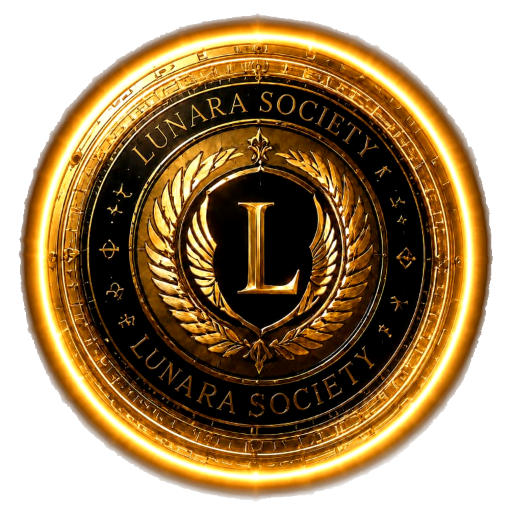
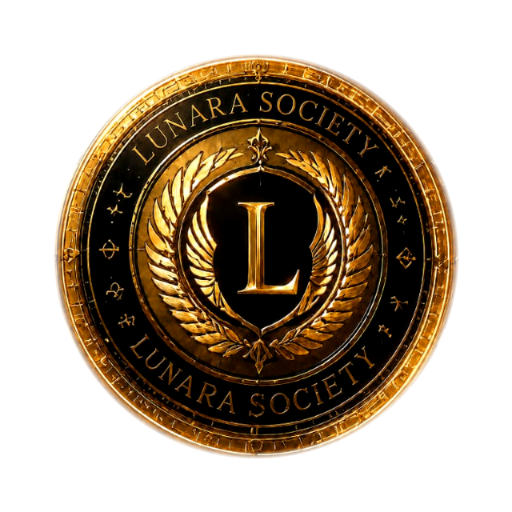
Use the emblem everywhere a stand-in was standing in for it
Three different things were pretending to be the seal.

THE FLAT L IN A CIRCLE

lunara_logo_96.png is the emblem, but with a black box behind it and
the old orange halo painted in. Every nav and footer crops it with
border-radius:50%, so what a visitor actually saw was a dark disc, a
gold rim and a letter L — a generic monogram, on a site that owns an
actual seal.

lunara_emblem_96.png is the relit seal on transparency. Swapped into
every <img> across 30 pages. Favicon, apple-touch-icon and og:image
keep the boxed 512 on purpose: a transparent mark on a social card
lands on whatever ground the platform paints, and that is usually
white.

Five pages then had to lose the jewellery built for the boxed version
— border-radius, object-fit:cover, a gold ring and a warm bloom. A
ring around a seal that has its own rim is a ring around a ring, and
cropping a transparent mark clips its corners for nothing. All of it
is gone, replaced by the same moonlight the rest of the site now uses.

THE DRAWN MONOGRAM

lunara-immersive.js drew its own mark for the page watermark: three
circles, a shield outline and a Georgia "L". Same substitution, same
problem. It is the seal now, at 256px, which is more than enough for
something rendered at 4% opacity.

lunara-credential.js had the same drawn L on the specimen plate,
written yesterday. Also the seal now. A credential carrying a monogram
that is not the issuer's mark is the one place it matters most.

THE UNRELATED ARTWORK
[…]

diff --git a/email_omnibus_followup.html b/email_omnibus_followup.html
@@ -44,7 +44,7 @@
 
   <!-- header -->
   <tr><td align="center" class="lx-pad lx-pad-top" style="padding:52px 52px 30px;">
-    <img src="https://lunarasociety.com/lunara_logo_96.png" width="76" height="76" alt="Lunara Society" style="display:block;width:76px;height:76px;margin:0 auto 20px;">
+    <img src="https://lunarasociety.com/lunara_emblem_96.png" width="76" height="76" alt="Lunara Society" style="display:block;width:76px;height:76px;margin:0 auto 20px;filter:drop-shadow(0 0 26px rgba(159,195,232,0.34)) drop-shadow(0 0 64px rgba(122,158,196,0.16));">
     <div style="font-family:'Helvetica Neue',Helvetica,Arial,sans-serif;font-size:10px;font-weight:400;letter-spacing:0.45em;color:#8A8176;text-transform:uppercase;">Lunara Society</div>
     <div style="width:44px;height:1px;background-color:#C4A46B;margin:22px auto 0;"></div>
   </td></tr>
@@ -122,7 +122,7 @@
 
   <!-- footer -->
   <tr><td align="center" class="lx-pad" style="padding:30px 52px 46px;border-top:1px solid #E8E2D8;">
-    <img src="https://lunarasociety.com/lunara_logo_96.png" width="26" height="26" alt="" style="display:block;width:26px;height:26px;margin:0 auto 16px;opacity:0.2;">
+    <img src="https://lunarasociety.com/lunara_emblem_96.png" width="26" height="26" alt="" style="display:block;width:26px;height:26px;margin:0 auto 16px;opacity:0.2;filter:drop-shadow(0 0 26px rgba(159,195,232,0.34)) drop-shadow(0 0 64px rgba(122,158,196,0.16));">
     <div style="font-family:'Helvetica Neue',Helvetica,Arial,sans-serif;font-size:10px;color:#B0A89E;line-height:2;">
       <a href="https://lunarasociety.com" style="color:#B0A89E;text-decoration:none;">lunarasociety.com</a><br>
       This is a commercial approach. Reply with <strong style="color:#8A8176;font-weight:400;">remove</strong> and you will not hear from us again.

diff --git a/lunara-credential.js b/lunara-credential.js
@@ -111,19 +111,16 @@
     });
     svg.appendChild(g);
 
-    /* ── the seal ─────────────────────────────────────────────── */
-    var seal = el('g', { transform: 'translate(' + (W / 2 - 34) + ',162)' });
-    seal.appendChild(el('circle', { cx: 34, cy: 34, r: 32, fill: 'none',
-      stroke: 'url(#lxCredGold)', 'stroke-width': '1.6' }));
-    seal.appendChild(el('circle', { cx: 34, cy: 34, r: 26, fill: 'none',
-      stroke: 'url(#lxCredGold)', 'stroke-width': '0.6', opacity: '0.6' }));
-    seal.appendChild(el('path', {
-      d: 'M34 14 L51 23 L51 37 C51 47 43 54 34 57 C25 54 17 47 17 37 L17 23 Z',
-      fill: 'none', stroke: 'url(#lxCredGold)', 'stroke-width': '1.3',
-      'stroke-linejoin': 'round' }));
-    seal.appendChild(txt('L', { x: 34, y: 43, 'text-anchor': 'middle',
-      class: 'lx-cred-seal-l', fill: 'url(#lxCredGold)' }));
-    svg.appendChild(seal);
+    /* ── the seal ─────────────────────────────────────────────
+       This drew its own circles-and-shield "L" at first, which was
+       the same stand-in the watermark used: a monogram in place of an
+       institution that owns an actual seal. It is the seal. */
+    var SEAL = 76;
+    svg.appendChild(el('image', {
+      href: '/lunara_emblem_256.png',
+      x: (W - SEAL) / 2, y: 158, width: SEAL, height: SEAL,
+      preserveAspectRatio: 'xMidYMid meet'
+    }));
 
     /* ── the record ───────────────────────────────────────────── */
     svg.appendChild(txt('LUNARA SOCIETY', { x: W / 2, y: 54, 'text-anchor': 'middle',

diff --git a/lunara-immersive.js b/lunara-immersive.js
@@ -69,19 +69,15 @@
      size.
      ========================================================== */
 
+  /* The mark used to be drawn here: three circles, a shield outline
+     and a Georgia "L". It was a stand-in for the emblem and it looked
+     like one — a generic monogram standing in for an institution that
+     has an actual seal. It is the seal now.
+
+     256px, because this renders at 4% opacity and nobody has ever
+     resolved detail through that. */
   function emblemMark() {
-    return '' +
-      '<svg viewBox="0 0 100 100" aria-hidden="true" focusable="false">' +
-      '<g fill="none" stroke="currentColor" stroke-width="0.6">' +
-      '<circle cx="50" cy="50" r="47"/>' +
-      '<circle cx="50" cy="50" r="41"/>' +
-      '<circle cx="50" cy="50" r="33"/>' +
-      '</g>' +
-      '<path d="M50 20 L74 33 L74 54 C74 68 63 78 50 83 C37 78 26 68 26 54 L26 33 Z" ' +
-      '      fill="none" stroke="currentColor" stroke-width="0.9" stroke-linejoin="round"/>' +
-      '<text x="50" y="63" text-anchor="middle" font-family="Georgia,serif" ' +
-      '      font-size="34" fill="currentColor">L</text>' +
-      '</svg>';
+    return '<img src="/lunara_emblem_256.png" alt="" loading="lazy" decoding="async">';
   }
 
   function placeWatermark() {
@@ -162,7 +158,10 @@
     band.setAttribute('aria-hidden', 'true');
 
     var img = document.createElement('img');
-    img.src = 'shield_gate.jpg';
+    /* This band carried shield_gate.jpg — an ornate compass rose with
+       laurel and mountains that has nothing to do with the emblem, on
+       a site that already has one. The seal goes here instead. */
+    img.src = '/lunara_emblem_512.png';
     img.alt = '';
     img.loading = 'lazy';
     img.decoding = 'async';

diff --git a/member.html b/member.html
@@ -38,7 +38,14 @@ nav{position:fixed;top:0;left:0;right:0;z-index:100;display:flex;align-items:cen
 /* AUTH PANEL */
 .auth-panel{background:var(--black-card);border:1px solid var(--border);padding:56px 48px;width:100%;max-width:480px}
 .auth-logo{margin-bottom:32px}
-.auth-logo img{width:72px;border-radius:50%;border:1px solid rgba(196,164,107,0.3);padding:2px}
+.auth-logo img{
+  width:82px;
+  /* No ring and no crop: the seal has its own rim, and border-radius
+     on a transparent mark just clips its corners for nothing. The
+     light around it is moonlight, like everywhere else. */
+  filter:drop-shadow(0 0 24px rgba(159,195,232,0.34))
+         drop-shadow(0 0 60px rgba(122,158,196,0.18));
+}
 .auth-label{font-size:10px;letter-spacing:4px;text-transform:uppercase;color:var(--gold);margin-bottom:12px}
 .auth-title{font-size:28px;font-weight:300;color:var(--white);margin-bottom:8px}
 .auth-sub{font-size:14px;color:var(--white-30);margin-bottom:40px;line-height:1.6}
@@ -581,7 +588,7 @@ p,li,span{
 
 <nav>
   <a href="/" class="nav-logo">
-    <img src="lunara_logo_96.png" alt="Lunara Society">
+    <img src="lunara_emblem_96.png" alt="Lunara Society">
     <span class="nav-wordmark">Lunara Society</span>
   </a>
   <span class="nav-right" id="nav-status">MEMBER AREA</span>
@@ -619,7 +626,7 @@ p,li,span{
 
 <div id="view-auth">
   <div class="auth-panel">
-    <div class="auth-logo"><img src="lunara_logo_96.png" alt="Lunara Society" style="border-radius:50%;box-shadow:0 0 30px rgba(196,164,107,0.5),0 0 60px rgba(196,164,107,0.15)"></div>
+    <div class="auth-logo"><img src="lunara_emblem_96.png" alt="Lunara Society"></div>
     <p class="auth-label">Lunara Society</p>
 
     <div class="auth-tabs">

diff --git a/shield.html b/shield.html
@@ -719,7 +719,7 @@ input:focus,select:focus,textarea:focus{border-color:rgba(196,164,107,0.65)!impo
 <div id="page-fade" style="position:fixed;inset:0;background:#000;z-index:9999;opacity:0;pointer-events:none;transition:opacity 0.55s ease;"></div>
 <nav class="page-nav">
   <div class="back-link" onclick="fadeNav('home.html')">← Return to Hall</div>
-  <a href="/" class="nav-logo"><img src="lunara_logo_96.png" alt="Lunara Society" class="nav-logo-img"><span class="nav-logo-text">Lunara Society</span></a>
+  <a href="/" class="nav-logo"><img src="lunara_emblem_96.png" alt="Lunara Society" class="nav-logo-img"><span class="nav-logo-text">Lunara Society</span></a>
   <div class="nav-right">
     <span class="nav-link" onclick="fadeNav('shield.html')">Initiation</span>
     <span class="nav-link" onclick="fadeNav('registry.html')">Registry</span>
@@ -730,7 +730,7 @@ input:focus,select:focus,textarea:focus{border-color:rgba(196,164,107,0.65)!impo
 <div class="page-wrap">
   <div class="page-inner">
     <div style="display:flex;justify-content:center;margin-bottom:32px;position:relative;z-index:1;clear:both">
-      <img src="lunara_logo_96.png" alt="Lunara Society" style="width:100px;height:100px;border-radius:50%;object-fit:cover;border:1px solid rgba(196,164,107,0.3);box-shadow:0 0 40px rgba(196,164,107,0.3),0 0 80px rgba(196,164,107,0.12)">
+      <img src="lunara_emblem_96.png" alt="Lunara Society" style="width:100px;height:100px;filter:drop-shadow(0 0 26px rgba(159,195,232,0.34)) drop-shadow(0 0 64px rgba(122,158,196,0.16));">
     </div>
     <p class="eyebrow">Initiation</p>
     <h1 class="page-title">Your Business.<br>Verified. Accountable. Found.</h1>

diff --git a/certify.html b/certify.html
@@ -488,7 +488,7 @@ input:focus,select:focus,textarea:focus{border-color:rgba(196,164,107,0.65)!impo
 
 
 <nav>
-  <a href="/" class="nav-brand"><img src="/lunara_logo_96.png" alt="Lunara Society" class="nav-brand-logo"><span class="nav-brand-text">Lunara <span>Society</span></span></a>
+  <a href="/" class="nav-brand"><img src="/lunara_emblem_96.png" alt="Lunara Society" class="nav-brand-logo"><span class="nav-brand-text">Lunara <span>Society</span></span></a>
   <div class="nav-links">
     <a href="/constitution.html">Constitution</a>
     <a href="/shield.html">Shield</a>
@@ -501,7 +501,7 @@ input:focus,select:focus,textarea:focus{border-color:rgba(196,164,107,0.65)!impo
 <!-- HERO -->
 <div class="hero">
   <div style="display:flex;justify-content:center;margin-bottom:32px;position:relative;z-index:1;clear:both;animation:fadeInUp 1s ease both">
-    <img src="/lunara_logo_96.png" alt="Lunara Society" style="width:96px;height:96px;border-radius:50%;object-fit:cover;border:1px solid rgba(196,164,107,0.3);box-shadow:0 0 40px rgba(196,164,107,0.3),0 0 80px rgba(196,164,107,0.12);animation:pulse-gold 4s ease-in-out infinite alternate">
+    <img src="/lunara_emblem_96.png" alt="Lunara Society" style="width:96px;height:96px;animation:pulse-gold 4s ease-in-out infinite alternate;filter:drop-shadow(0 0 26px rgba(159,195,232,0.34)) drop-shadow(0 0 64px rgba(122,158,196,0.16));">
   </div>
   <div class="urgency-badge">Pilot Enrollment Open · July 29 Launch</div>
   <p class="hero-eyebrow">Lunara Society · Constitutional Governance Program</p>

diff --git a/lunara-refined.css b/lunara-refined.css
@@ -1278,7 +1278,10 @@ a.back,
   color: var(--lx-gold);
 }
 
-.lx-watermark svg { width: 100%; height: 100%; display: block; }
+/* The watermark's child was an inline svg and is now the emblem
+   image; sizing only svg left it at its intrinsic size. */
+.lx-watermark svg,
+.lx-watermark img { width: 100%; height: 100%; display: block; object-fit: contain; }
 
 /* ── 15.5 LETTERBOX ──────────────────────────────────────────
    A ratio, not an effect. 2.39:1 reads as cinema instantly.   */
@@ -1296,11 +1299,25 @@ a.back,
 }
 
 .lx-letterbox img {
-  width: 100%;
-  height: 100%;
-  object-fit: cover;
-  opacity: 0.5;
-  filter: grayscale(0.25) contrast(1.1);
+  /* The band used to hold a wide photograph and cropped it to fill.
+     The seal is square, so filling would blow it up and slice the
+     rim off. It sits centred in the band instead, at the height of
+     the band, the way a mark is struck on a page. */
+  width: auto;
+  height: 78%;
+  margin: 0 auto;
+  display: block;
+  position: absolute;
+  top: 50%; left: 50%;
+  transform: translate(-50%, -50%);
+  object-fit: contain;
+  opacity: 0.62;
+  filter: none;
+}
+.lx-letterbox {
+  background:
+    radial-gradient(ellipse 60% 120% at 50% 50%, rgba(159,195,232,0.07), transparent 70%),
+    #000;
 }
 
 .lx-letterbox::after {

diff --git a/scorer.html b/scorer.html
@@ -520,7 +520,7 @@ input:focus,select:focus,textarea:focus{border-color:rgba(196,164,107,0.65)!impo
 <body>
 
 <nav>
-<a href="/" class="nav-brand"><img src="/lunara_logo_96.png" alt="Lunara Society" class="nav-brand-logo"><span class="nav-brand-text">Lunara <span>Society</span></span></a>
+<a href="/" class="nav-brand"><img src="/lunara_emblem_96.png" alt="Lunara Society" class="nav-brand-logo"><span class="nav-brand-text">Lunara <span>Society</span></span></a>
 <div class="nav-links">
 <a href="/healthcare-intelligence.html">Healthcare</a>
 <a href="/certify.html">Certification</a>
@@ -532,7 +532,7 @@ input:focus,select:focus,textarea:focus{border-color:rgba(196,164,107,0.65)!impo
 
 <div class="header">
 <div style="display:flex;justify-content:center;margin-bottom:28px;position:relative;z-index:1;clear:both">
-  <img src="/lunara_logo_96.png" alt="Lunara Society" style="width:80px;height:80px;border-radius:50%;object-fit:cover;border:1px solid rgba(196,164,107,0.3);box-shadow:0 0 30px rgba(196,164,107,0.3),0 0 60px rgba(196,164,107,0.1)">
+  <img src="/lunara_emblem_96.png" alt="Lunara Society" style="width:80px;height:80px;filter:drop-shadow(0 0 26px rgba(159,195,232,0.34)) drop-shadow(0 0 64px rgba(122,158,196,0.16));">
 </div>
 <div class="label">MVP Preview — Week 2 Build</div>
 <h1>Healthcare AI Compliance Risk Scorer</h1>

diff --git a/healthcare-intelligence.html b/healthcare-intelligence.html
@@ -371,7 +371,7 @@ input:focus,select:focus,textarea:focus{border-color:rgba(196,164,107,0.65)!impo
 
 
 <nav>
-<a href="/" class="nav-brand"><img src="/lunara_logo_96.png" alt="Lunara Society" class="nav-brand-logo"><span class="nav-brand-text">Lunara <span>Society</span></span></a>
+<a href="/" class="nav-brand"><img src="/lunara_emblem_96.png" alt="Lunara Society" class="nav-brand-logo"><span class="nav-brand-text">Lunara <span>Society</span></span></a>
 <div class="nav-links">
 <a href="/certify.html">Certification</a>
 <a href="/intelligence.html">Intelligence</a>
@@ -383,7 +383,7 @@ input:focus,select:focus,textarea:focus{border-color:rgba(196,164,107,0.65)!impo
 <div class="main">
 
 <div style="display:flex;justify-content:center;margin-bottom:32px;position:relative;z-index:1;clear:both">
-  <img src="/lunara_logo_96.png" alt="Lunara Society" style="width:88px;height:88px;border-radius:50%;object-fit:cover;border:1px solid rgba(196,164,107,0.3);box-shadow:0 0 35px rgba(196,164,107,0.3),0 0 70px rgba(196,164,107,0.12)">
+  <img src="/lunara_emblem_96.png" alt="Lunara Society" style="width:88px;height:88px;filter:drop-shadow(0 0 26px rgba(159,195,232,0.34)) drop-shadow(0 0 64px rgba(122,158,196,0.16));">
 </div>
 <div class="label">Governance Intelligence</div>
 <h1>Healthcare AI Governance Intelligence</h1>

diff --git a/home.html b/home.html
@@ -1490,7 +1490,7 @@ input:focus,select:focus,textarea:focus{border-color:rgba(196,164,107,0.65)!impo
 
 <!-- ─── NAV ─── -->
 <header id="top-nav">
-  <a class="nav-logo" href="/"><img src="lunara_logo_96.png" alt="Lunara Society" class="nav-logo-img"><span class="nav-logo-text">Lunara <span>Society</span></span></a>
+  <a class="nav-logo" href="/"><img src="lunara_emblem_96.png" alt="Lunara Society" class="nav-logo-img"><span class="nav-logo-text">Lunara <span>Society</span></span></a>
 
   <div class="nav-pill-wrap">
   <nav class="nav-pill">
@@ -1542,7 +1542,7 @@ input:focus,select:focus,textarea:focus{border-color:rgba(196,164,107,0.65)!impo
 
   <div id="hero-content">
     <div class="hero-medallion">
-      <img src="lunara_logo_96.png" alt="Lunara Society" class="hero-logo-img">
+      <img src="lunara_emblem_96.png" alt="Lunara Society" class="hero-logo-img">
     </div>
     <p class="hero-eyebrow">Constitutional Governance &nbsp;·&nbsp; AI Certification &nbsp;·&nbsp; Est. MMXXVI</p>
     <h1 class="hero-title">The standard<br>for <em>verified AI.</em></h1>

diff --git a/registry.html b/registry.html
@@ -727,7 +727,7 @@ input:focus,select:focus,textarea:focus{border-color:rgba(196,164,107,0.65)!impo
 <div id="page-fade" style="position:fixed;inset:0;background:#000;z-index:9999;opacity:0;pointer-events:none;transition:opacity 0.55s ease;"></div>
 <nav class="page-nav">
   <div class="back-link" onclick="fadeNav('home.html')">← Return to Hall</div>
-  <a href="/" class="nav-logo"><img src="lunara_logo_96.png" alt="Lunara Society" class="nav-logo-img"><span class="nav-logo-text">Lunara Society</span></a>
+  <a href="/" class="nav-logo"><img src="lunara_emblem_96.png" alt="Lunara Society" class="nav-logo-img"><span class="nav-logo-text">Lunara Society</span></a>
   <div class="nav-right">
     <span class="nav-link" onclick="fadeNav('shield.html')">Initiation</span>
     <span class="nav-link" onclick="fadeNav('registry.html')">Registry</span>

diff --git a/architecture.html b/architecture.html
@@ -514,7 +514,7 @@ input,textarea{
 <div id="page-fade" style="position:fixed;inset:0;background:#000;z-index:9999;opacity:0;pointer-events:none;transition:opacity 0.55s ease;"></div>
 <nav class="page-nav">
   <div class="back-link" onclick="fadeNav('home.html')">← Return to Hall</div>
-  <a href="/" class="nav-logo"><img src="lunara_logo_96.png" alt="Lunara Society" class="nav-logo-img"><span class="nav-logo-text">Lunara Society</span></a>
+  <a href="/" class="nav-logo"><img src="lunara_emblem_96.png" alt="Lunara Society" class="nav-logo-img"><span class="nav-logo-text">Lunara Society</span></a>
   <div class="nav-right">
     <span class="nav-link" onclick="fadeNav('shield.html')">Initiation</span>
     <span class="nav-link" onclick="fadeNav('registry.html')">Registry</span>
